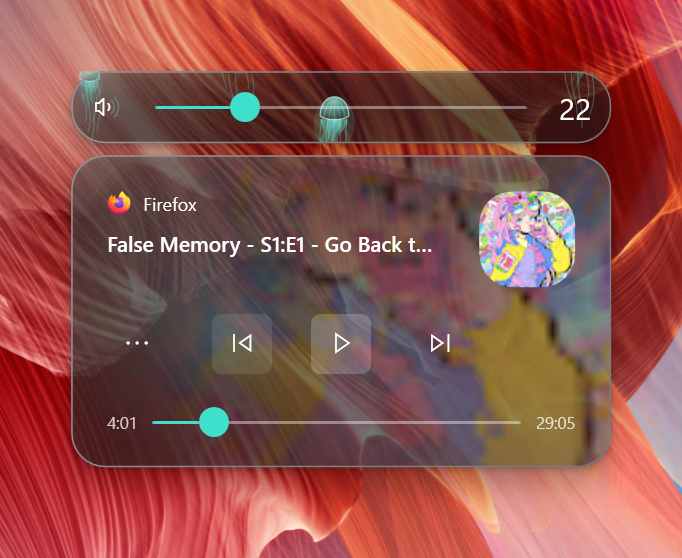
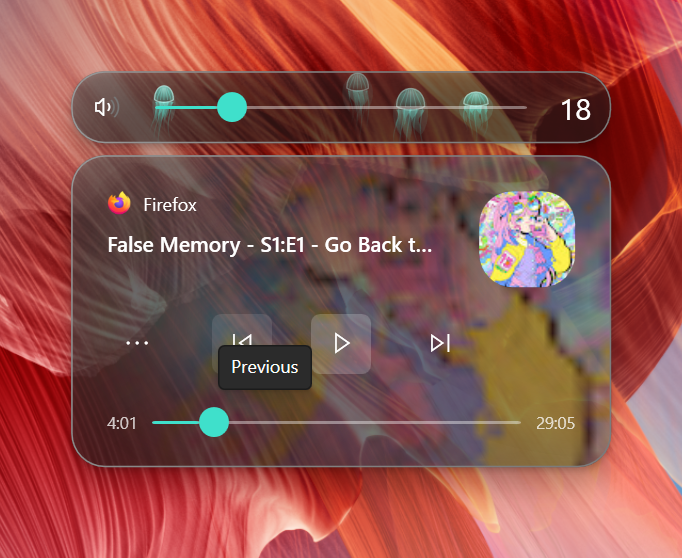
fix: stop jellyfish being sliced by the card edges
The slider strip is short, so a jellyfish was near one of its borders almost all the time
and the border cut it in half - a bell with a flat top, or tentacles ending in a hard line
across the bottom of the card.

Three changes. Each animal now dissolves as it enters from below and again as it leaves
through the top, instead of being clipped. The tentacles fade along their length like the
arms already did, so a strand crossing the bottom border goes to nothing before it gets
there. And the horizontal position is inset by the bell's width, because there is no fade
sideways - one spawned near a side used to sit sliced by that border for its whole life.

Bodies are a little smaller to leave room for this, and because a faded jellyfish is an
invisible one, they are recycled as soon as they fade out rather than after the last
tentacle clears the card; otherwise most of them sat parked off-card and the strip looked
empty.

diff --git a/Aurelia/Controls/JellyfishLayer.cs b/Aurelia/Controls/JellyfishLayer.cs
@@ -85,7 +85,7 @@ namespace Aurelia.Controls
                 nameof(Count),
                 typeof(int),
                 typeof(JellyfishLayer),
-                new PropertyMetadata(6, (d, _) => { var l = (JellyfishLayer)d; l.Populate(); l.Render(); }));
+                new PropertyMetadata(7, (d, _) => { var l = (JellyfishLayer)d; l.Populate(); l.Render(); }));
 
         /// <summary>Upper bound on how many drift through at once; the layer's size sets the rest.</summary>
         public int Count
@@ -160,14 +160,15 @@ namespace Aurelia.Controls
             {
                 m.Y -= m.Speed * delta;
 
-                // The arms trail a long way below the bell, so it is only truly gone once the
-                // longest tentacle has cleared the top - otherwise strands pop out of existence.
+                // Recycled as soon as the edge fade has taken it to nothing, rather than after
+                // the last tentacle clears the top. Waiting would park it invisibly off-card for
+                // most of its life, leaving the strip empty.
                 double bh = 13 * m.Scale;
 
-                if (m.Y < -bh * 8)
+                if (m.Y < -bh * 0.8)
                 {
-                    m.Y = ActualHeight + bh * 2.5;
-                    m.X = random.NextDouble() * Math.Max(1, ActualWidth);
+                    m.Y = ActualHeight + bh * 2.2;
+                    m.X = RandomX(m);
                 }
             }
 
@@ -188,19 +189,17 @@ namespace Aurelia.Controls
             // A slider card is a short, wide strip, so the bell is sized off the height and the
             // count off the width. The arms are far longer than the card is tall and simply get
             // clipped - a jellyfish passing through the frame reads better than one shrunk to fit.
-            double fit = Math.Clamp(h / 95.0, 0.30, 1.4);
-            int count = Math.Clamp((int)Math.Round(w / 100.0), 1, Count);
+            double fit = Math.Clamp(h / 105.0, 0.28, 1.3);
+            int count = Math.Clamp((int)Math.Round(w / 85.0), 1, Count);
 
             for (int i = 0; i < count; i++)
             {
                 double bh = 13 * fit;
-
-                medusae.Add(new Medusa
+                var m = new Medusa
                 {
-                    X = (i + 0.5) / count * w + (random.NextDouble() - 0.5) * w * 0.2,
-                    // Spread over the whole travel, including the stretch below the card, so they
-                    // do not all arrive in a row on the first frame.
-                    Y = -bh * 8 + random.NextDouble() * (h + bh * 10),
+                    // Spread over the whole travel, so they do not all arrive in a row on the
+                    // first frame.
+                    Y = -bh * 0.8 + random.NextDouble() * (h + bh * 3),
                     Scale = fit * (0.78 + random.NextDouble() * 0.5),
                     Speed = 7 + random.NextDouble() * 10,
                     SwayAmplitude = 3 + random.NextDouble() * 7,
@@ -209,8 +208,28 @@ namespace Aurelia.Controls
                     Phase = random.NextDouble() * Math.PI * 2,
                     Alpha = 0.50 + random.NextDouble() * 0.30,
                     Lean = (random.NextDouble() - 0.5) * 0.5
-                });
+                };
+
+                m.X = RandomX(m);
+                medusae.Add(m);
             }
+        }
+
+        /// <summary>
+        /// A horizontal position that keeps the whole bell clear of the left and right borders.
+        /// </summary>
+        /// <remarks>
+        /// Vertically a jellyfish fades as it crosses an edge, but horizontally it just drifts, so
+        /// one spawned near a side would sit sliced in half by the border for its entire life.
+        /// </remarks>
+        private double RandomX(Medusa m)
+        {
+            double inset = 17 * m.Scale * 1.7 + m.SwayAmplitude;
+            double w = ActualWidth;
+
+            return w <= inset * 2
+                ? w / 2
+                : inset + random.NextDouble() * (w - inset * 2);
         }
 
         private void Render()
@@ -256,7 +275,20 @@ namespace Aurelia.Controls
             double bw = 17 * m.Scale * (1 + pulse * 0.13);
             double bh = 13 * m.Scale * (1 - pulse * 0.17);
 
-            double a = m.Alpha;
+            // The card is a short strip, so an animal is always near one edge of it. Rather
+            // than let the border slice a bell in half, each one dissolves as it enters from the
+            // bottom and again as it leaves through the top.
+            double bellTop = cy - bh * 2.1;
+            double bellBottom = cy + bh * 0.5;
+            double fadeIn = Math.Clamp((ActualHeight - bellTop) / (bh * 3.0), 0, 1);
+            double fadeOut = Math.Clamp(bellBottom / (bh * 3.0), 0, 1);
+
+            double a = m.Alpha * Math.Min(fadeIn, fadeOut);
+
+            if (a <= 0.01)
+            {
+                return;
+            }
 
             // Back to front: veils, then the fine tentacles, then the arms over them, then
             // the bell last so its rim reads cleanly against everything it overlaps.
@@ -364,7 +396,7 @@ namespace Aurelia.Controls
             {
                 double offset = (r - (ribbons - 1) / 2.0) / Math.Max(1, (ribbons - 1) / 2.0);
                 double rootX = cx + offset * bw * 0.45;
-                double length = bh * (3.2 + r % 2 * 1.0);
+                double length = bh * (2.8 + r % 2 * 0.9);
                 double phase = m.Phase - r * 0.7;
 
                 var left = new Point[samples];
@@ -410,8 +442,8 @@ namespace Aurelia.Controls
                     GradientStops = new GradientStopCollection
                     {
                         new GradientStop(Shade(a * 0.72, 0.30), 0.0),
-                        new GradientStop(Shade(a * 0.40, 0.10), 0.45),
-                        new GradientStop(Shade(0.0), 1.0)
+                        new GradientStop(Shade(a * 0.38, 0.10), 0.40),
+                        new GradientStop(Shade(0.0), 0.85)
                     }
                 };
                 fill.Freeze();
@@ -425,7 +457,21 @@ namespace Aurelia.Controls
             const int tentacles = 5;
             const int samples = 14;
 
-            var pen = new Pen(new SolidColorBrush(Shade(a * 0.45, 0.15)), Math.Max(0.8, 1.3 * m.Scale))
+            // Mapped to each tentacle's own bounds, so every strand fades from root to tip.
+            var strand = new LinearGradientBrush
+            {
+                StartPoint = new Point(0, 0),
+                EndPoint = new Point(0, 1),
+                GradientStops = new GradientStopCollection
+                {
+                    new GradientStop(Shade(a * 0.50, 0.15), 0.0),
+                    new GradientStop(Shade(a * 0.28, 0.10), 0.45),
+                    new GradientStop(Shade(0.0), 0.9)
+                }
+            };
+            strand.Freeze();
+
+            var pen = new Pen(strand, Math.Max(0.8, 1.3 * m.Scale))
             {
                 StartLineCap = PenLineCap.Round,
                 EndLineCap = PenLineCap.Round
@@ -436,7 +482,7 @@ namespace Aurelia.Controls
             {
                 double offset = (t - (tentacles - 1) / 2.0) / ((tentacles - 1) / 2.0);
                 double rootX = cx + offset * bw * 0.85;
-                double length = bh * (4.2 + (t % 3) * 1.0);
+                double length = bh * (3.6 + (t % 3) * 0.9);
                 double phase = m.Phase - t * 0.45;
 
                 var path = new StreamGeometry();
